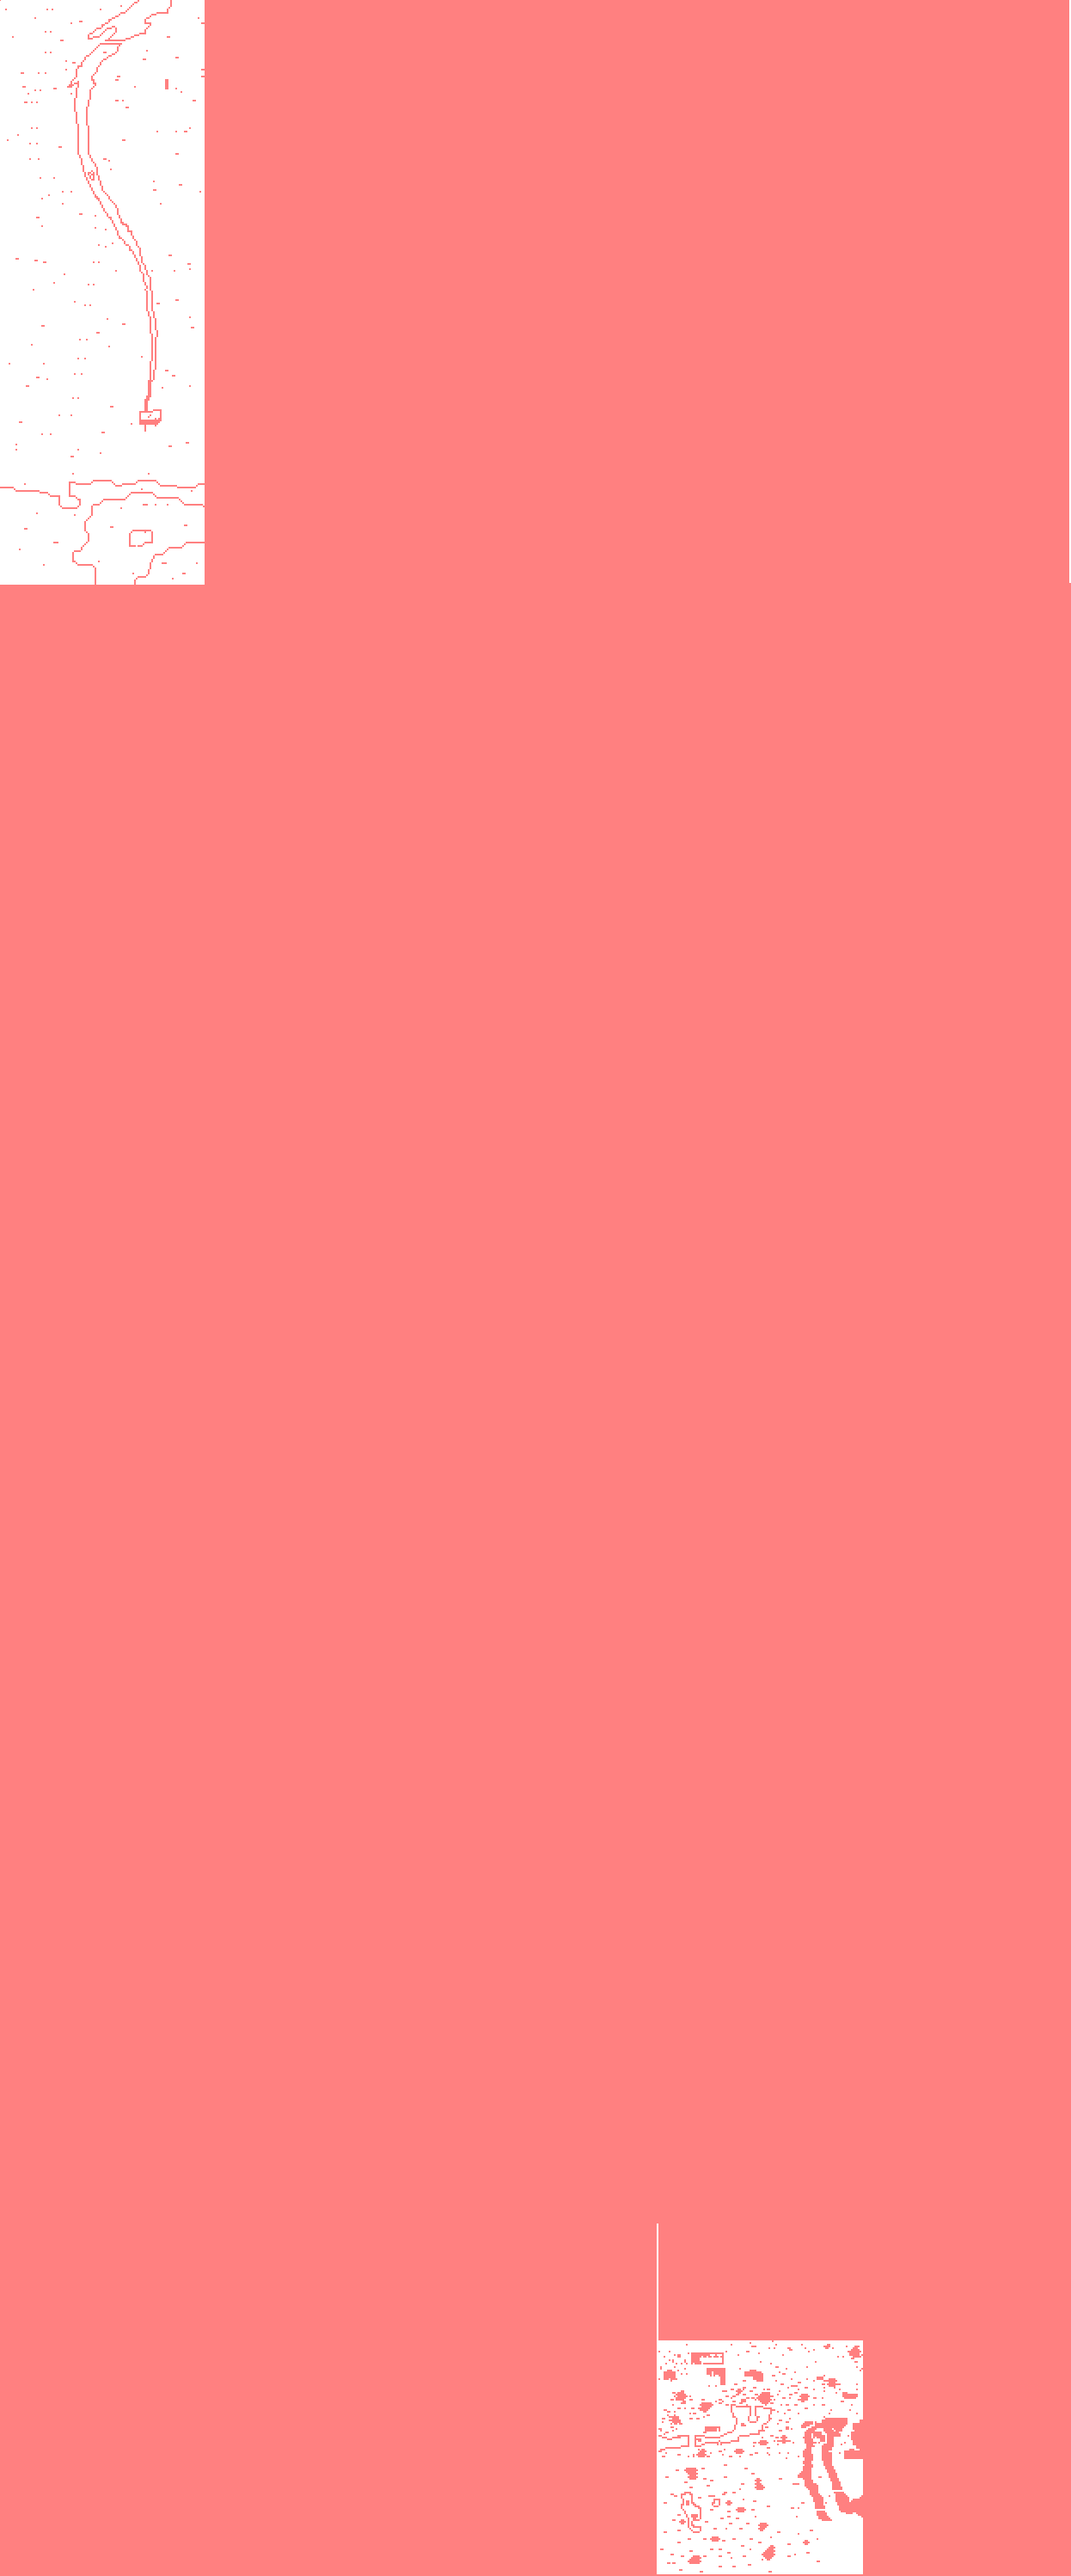
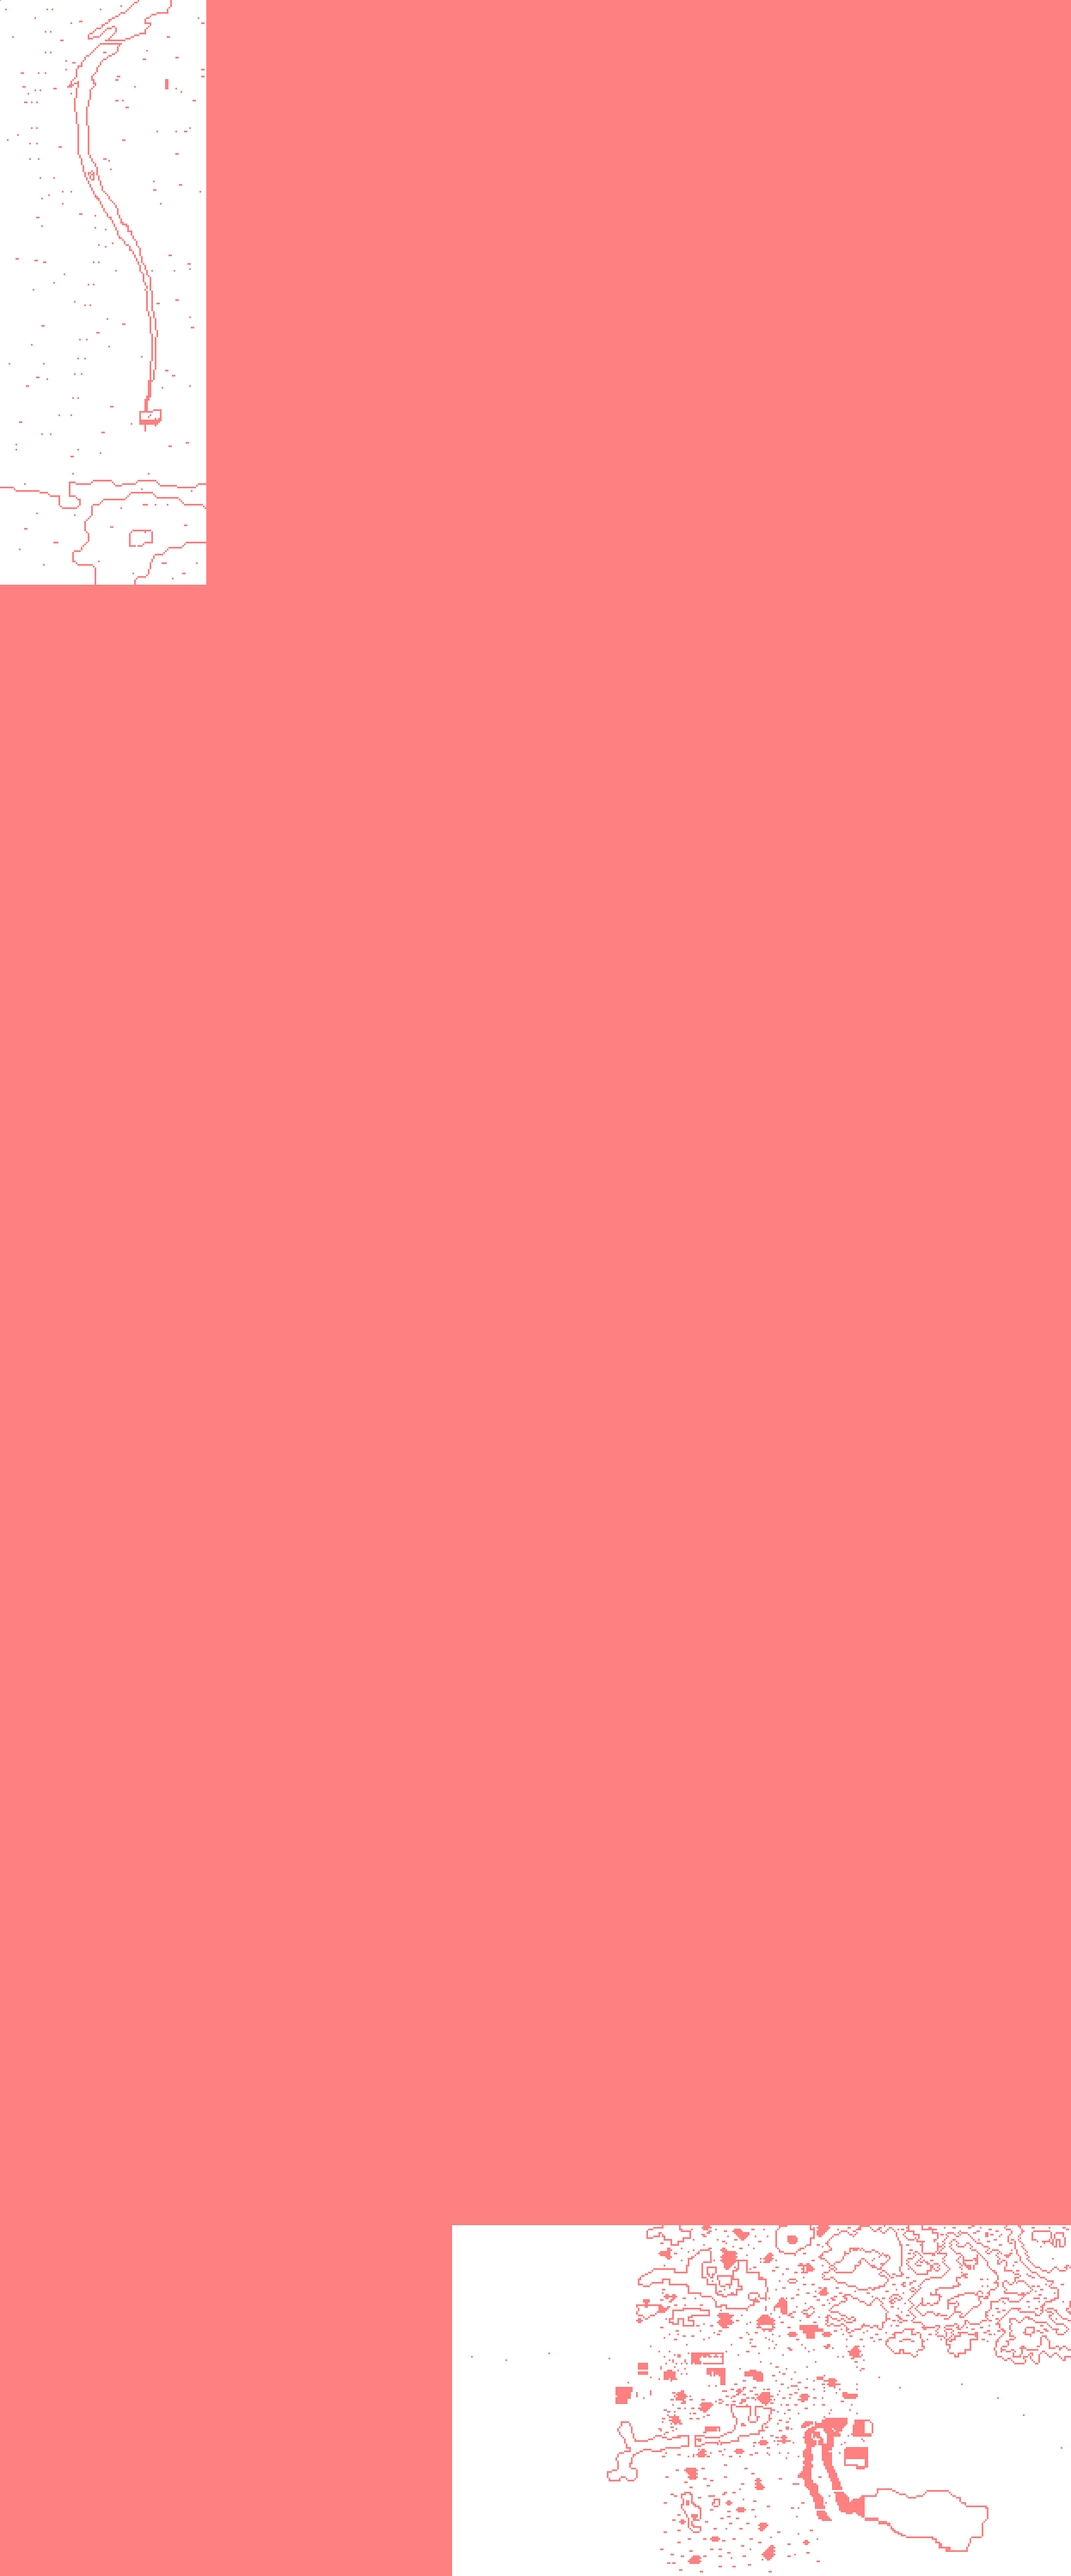
fix world tile logic

Changed region(s): [[0.3965, 0.8381, 1.0, 1.0]]

diff --git a/src/server/utilities/world.test.ts b/src/server/utilities/world.test.ts
@@ -2,9 +2,11 @@ import {
   getWorldSize,
   getWorldTileId,
   getLocalTileId,
-  getRandomValidTile,
   pathToRandomTile,
   isValidWorldTile,
+  worldTileIdToPixels,
+  worldPixelsToTileId,
+  getRandomValidTile,
 } from "./world";
 
 describe("world utilities", () => {
@@ -12,9 +14,9 @@ describe("world utilities", () => {
     test("gets the correct size of the world", () => {
       const worldSize = getWorldSize();
       expect(worldSize).toStrictEqual({
-        width: 3840,
+        width: 3872,
         height: 4672,
-        x: 0,
+        x: -32,
         y: -320,
       });
     });
@@ -23,23 +25,56 @@ describe("world utilities", () => {
   describe("#getWorldTileId", () => {
     test("should get the correct world tile id below zero", () => {
       const worldTileId = getWorldTileId("test", 49);
-      expect(worldTileId).toBe(-711);
+      expect(worldTileId).toBe(-722);
     });
 
-    test("should get the correct world tile id above zero", () => {
-      const worldTileId = getWorldTileId("south", 210);
-      expect(worldTileId).toBe(8370);
+    // test("should get the correct world tile id above zero", () => {
+    //   const worldTileId = getWorldTileId("south", 210);
+    //   expect(worldTileId).toBe(8490);
+    // });
+
+    test("should correctly calculate first tileId", () => {
+      const worldColumns = 9;
+      const wSize = {
+        x: -32,
+        y: -64,
+        width: worldColumns * 32,
+        height: 4 * 32,
+      };
+
+      expect(
+        worldPixelsToTileId({ x: -32, y: -32 }, worldColumns)
+      ).toStrictEqual(-10);
+
+      expect(worldTileIdToPixels(-10, worldColumns, wSize)).toStrictEqual({
+        x: -32,
+        y: -32,
+      });
+
+      expect(worldTileIdToPixels(-17, worldColumns, wSize)).toStrictEqual({
+        x: 32,
+        y: -64,
+      });
+
+      expect(worldTileIdToPixels(10, worldColumns, wSize)).toStrictEqual({
+        x: 32,
+        y: 32,
+      });
+      expect(worldTileIdToPixels(3, worldColumns, wSize)).toStrictEqual({
+        x: 96,
+        y: 0,
+      });
     });
   });
 
   describe("#getLocalTileId", () => {
     test("should get the correct local tile id below zero", () => {
-      const localTileId = getLocalTileId(-711);
+      const localTileId = getLocalTileId(-722);
       expect(localTileId).toStrictEqual({ tileId: 49, fileName: "test" });
     });
 
     test("should get the correct local tile id above zero", () => {
-      const localTileId = getLocalTileId(8160);
+      const localTileId = getLocalTileId(8228);
       expect(localTileId).toStrictEqual({ tileId: 0, fileName: "south" });
     });
   });
@@ -65,7 +100,7 @@ describe("world utilities", () => {
 
   describe("#pathToRandomTile", () => {
     test("should return a path to a random valid tile", () => {
-      const randomPath = pathToRandomTile(1, -118);
+      const randomPath = pathToRandomTile(1, -119);
       expect(randomPath).toStrictEqual([
         {
           fileName: "first",
@@ -73,7 +108,7 @@ describe("world utilities", () => {
         },
         {
           fileName: "test",
-          tileId: 92,
+          tileId: 102,
         },
       ]);
     });

diff --git a/src/server/utilities/world.ts b/src/server/utilities/world.ts
@@ -11,6 +11,7 @@ import { Vector } from "types/TMJ";
 import { AStarFinder } from "astar-typescript";
 import { getBlockGrid } from "utilities/movement/aStar";
 import { areColliding, randomItemFromArray } from "utilities/math";
+import addOffset from "@client/utilities/Vector/addOffset";
 
 export const getMapColumns = (fileName: string) => {
   const maps = readMapFiles();
@@ -56,6 +57,29 @@ export const getWorldTileId = (fileName: string, tileId: number) => {
   return pixelsToTileId({ x, y }, worldColumns);
 };
 
+export const worldPixelsToTileId = (
+  { x, y }: Vector,
+  columns = worldColumns
+) => {
+  const column = Math.floor(x / 32);
+  const row = Math.floor(y / 32);
+  return row * columns + column;
+};
+
+export const worldTileIdToPixels = (
+  number: number,
+  columns = worldColumns,
+  wSize = worldSize
+): Vector => {
+  const zeroColumn = Math.abs(worldSize.x / 32);
+  const unmovedVector = tileIdToPixels(number + zeroColumn, columns);
+
+  return {
+    x: unmovedVector.x + wSize.x,
+    y: unmovedVector.y,
+  };
+};
+
 export type LocalTile = {
   tileId: number;
   fileName: string;
@@ -63,29 +87,24 @@ export type LocalTile = {
 
 export const getLocalTileId = (tileId: number): LocalTile | undefined => {
   const worldMap = getWorldMapItems();
-  const worldSize = getWorldSize();
 
-  const vector = tileIdToPixels(tileId, worldColumns);
+  const vector = worldTileIdToPixels(tileId);
 
   for (let i = 0; i < worldMap.length; i += 1) {
     const worldPosition = worldMap[i];
 
-    const adjustedVector = {
-      x: tileId > 0 ? vector.x : vector.x + worldSize.width,
-      y: vector.y,
-    };
     const colliding = areColliding(worldPosition, {
-      ...adjustedVector,
+      ...vector,
       width: 32,
       height: 32,
     });
 
-    const relativeVector = {
-      x: 0 - (worldPosition.x - adjustedVector.x),
-      y: 0 - (worldPosition.y - adjustedVector.y),
-    };
-
     if (colliding) {
+      const relativeVector = {
+        x: 0 - (worldPosition.x - vector.x),
+        y: 0 - (worldPosition.y - vector.y),
+      };
+
       return {
         tileId: pixelsToTileId(relativeVector, worldPosition.width / 32),
         fileName: worldPosition.fileName,

diff --git a/src/utilities/tileMap.ts b/src/utilities/tileMap.ts
@@ -2,7 +2,6 @@ import { Vector, Attributes, TMJ } from "types/TMJ";
 import {
   ObjectTileTypeString,
   ObjectTileType,
-  ObjectTile,
 } from "types/TileMap/ObjectTileStore";
 import { Property } from "types/TMJ";
 import { isPresent } from "./guards";
@@ -20,10 +19,16 @@ export const tileIdToPixels = (
   columns: number,
   tileSize: number = 32
 ): Vector => {
-  return {
+  const vector = {
     x: (number % columns) * tileSize,
     y: Math.floor(number / columns) * tileSize,
   };
+  return number < 0
+    ? {
+        x: vector.x ? columns * tileSize + vector.x : 0,
+        y: vector.y,
+      }
+    : vector;
 };
 
 export const vectorToTileId = ({ x, y }: Vector, columns: number) => {

diff --git a/src/scripts/blockList/blockListFromOutOfBounds.ts b/src/scripts/blockList/blockListFromOutOfBounds.ts
@@ -1,4 +1,4 @@
-import { worldColumns } from "@server/utilities/world";
+import { worldColumns, worldTileIdToPixels } from "@server/utilities/world";
 import { tileIdToPixels } from "utilities/tileMap";
 import { areColliding } from "utilities/math";
 import { getWorldMapItems } from "@server/utilities/mapFiles";
@@ -7,7 +7,8 @@ const worldMap = getWorldMapItems();
 
 export const createBlockListFromOutOfBounds = (tileId) => {
   for (let mapKey in worldMap) {
-    const pixels = tileIdToPixels(tileId, worldColumns);
+    const pixels = worldTileIdToPixels(tileId, worldColumns);
+
     if (areColliding(worldMap[mapKey], { ...pixels, width: 32, height: 32 })) {
       return true;
     }

diff --git a/src/setupTests.js b/src/setupTests.js
@@ -9,7 +9,7 @@ south.properties.push({ name: "fileName", type: "string", value: "south" });
 jest.mock("@server/utilities/mapFiles", () => ({
   readMapFiles: () => ({ test, first, south }),
   getWorldMapItems: () => [
-    { fileName: "test", x: 0, y: -320, width: 320, height: 320 },
+    { fileName: "test", x: -32, y: -320, width: 352, height: 320 },
     { fileName: "first", x: 0, y: 0, width: 3840, height: 2176 },
     { fileName: "south", x: 0, y: 2176, width: 3840, height: 2176 },
   ],

diff --git a/src/utilities/tileMap.test.ts b/src/utilities/tileMap.test.ts
@@ -1,0 +1,9 @@
+import { tileIdToPixels } from "./tileMap";
+
+describe("tileMap", () => {
+  describe("#tileIdToPixels", () => {
+    test("can convert to correct pixels", () => {
+      expect(tileIdToPixels(10, 10)).toStrictEqual({ x: 0, y: 32 });
+    });
+  });
+});
